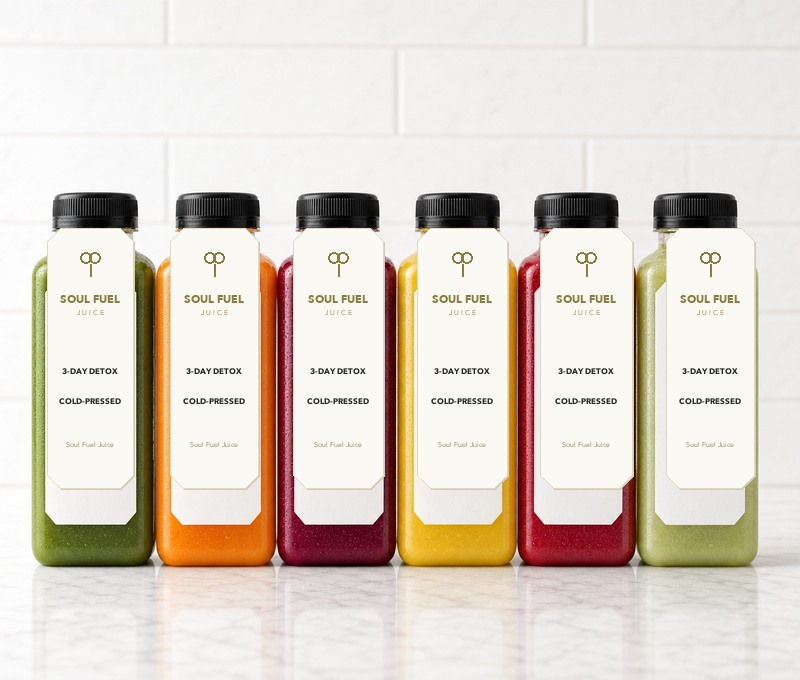
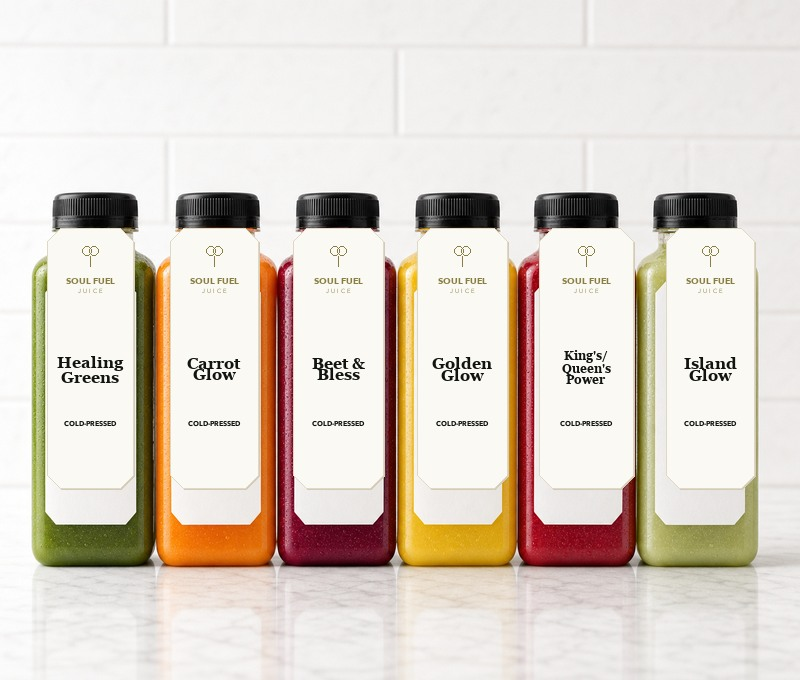
Add detox bottle flavor labels

diff --git a/js/products.js b/js/products.js
@@ -112,7 +112,7 @@ const PRODUCTS = [
   },
   {
     id: "detox-3day", type: "bundle", name: "3-Day Detox Challenge",
-    img: "/assets/img/detox-3day-regular-juices.jpg?v=5",
+    img: "/assets/img/detox-3day-regular-juices.jpg?v=6",
     ingredients: "9 regular juices from the Soul Fuel lineup: Healing Greens, Carrot Glow, Beet & Bless, Golden Glow, King's/Queen's Power, Island Glow",
     benefits: ["9 Regular Juices", "Choose Your Mix", "Reset & Refresh"],
     sizes: [